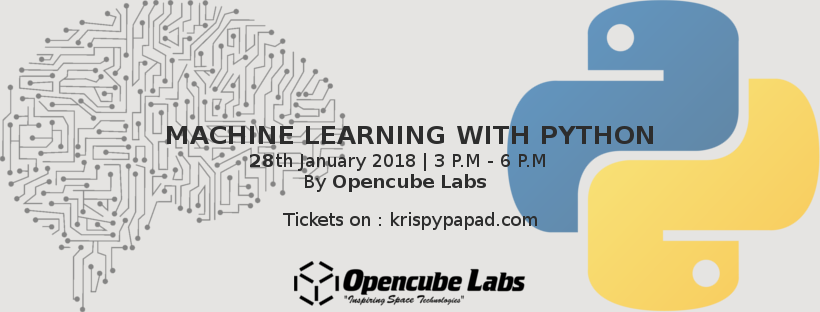
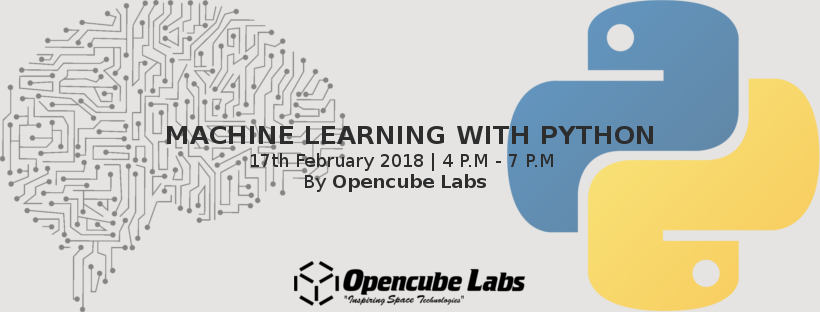
new ml-py wrkshp added for 17/02/2018

Changed region(s): [[0.3049, 0.4904, 0.6707, 0.5481], [0.3354, 0.6635, 0.6707, 0.75]]

diff --git a/templates/index.html b/templates/index.html
@@ -142,6 +142,18 @@
 
           <div class="col-md-3 wow fadeIn" data-wow-duration="2s" style="margin-top: 15px;">
             <div class="card" style="width: 100%;">
+              <img src="img/events/ml-py.png" alt="Avatar" style="width:100%">
+              <div class="card-container">
+                <h4><b>Machine Learning with Python</b></h4> 
+                <p>17th Feb, 2018 | 04 P.M - 07 P.M</p>
+                <p><i class="fa fa-map-marker"></i> Bangalore</p>
+                <p>₹399 | <a href="/event/ocl-ml-with-python"  target="_blank" style="text-decoration: none; color: #fff;"><button class="card-1" style="border: none; background-color: #2e90cc; padding-left: 15px; padding-right: 15px; padding-top: 5px; padding-bottom: 5px;">Know more</button></a></p> 
+              </div>
+            </div>
+          </div>
+
+          <div class="col-md-3 wow fadeIn" data-wow-duration="2s" style="margin-top: 15px;">
+            <div class="card" style="width: 100%;">
               <img src="img/events/odh.png" alt="Avatar" style="width:100%">
               <div class="card-container">
                 <h4><b>Data Science Workshop</b></h4> 
@@ -161,18 +173,6 @@
                 <p>28th Jan, 2018 | 9 A.M - 12 P.M</p>
                 <p><i class="fa fa-map-marker"></i> Bangalore</p>
                 <p>₹399 onwards | <a href="/event/ocl-arduino"  target="_blank" style="text-decoration: none; color: #fff;"><button class="card-1" style="border: none; background-color: #2e90cc; padding-left: 15px; padding-right: 15px; padding-top: 5px; padding-bottom: 5px;">Know more</button></a></p> 
-              </div>
-            </div>
-          </div>
-
-          <div class="col-md-3 wow fadeIn" data-wow-duration="2s" style="margin-top: 15px;">
-            <div class="card" style="width: 100%;">
-              <img src="img/events/ml-py.png" alt="Avatar" style="width:100%">
-              <div class="card-container">
-                <h4><b>Machine Learning with Python</b></h4> 
-                <p>28th Jan, 2018 | 03 P.M - 06 P.M</p>
-                <p><i class="fa fa-map-marker"></i> Bangalore</p>
-                <p>₹399 | <a href="/event/ocl-ml-with-python"  target="_blank" style="text-decoration: none; color: #fff;"><button class="card-1" style="border: none; background-color: #2e90cc; padding-left: 15px; padding-right: 15px; padding-top: 5px; padding-bottom: 5px;">Know more</button></a></p> 
               </div>
             </div>
           </div>

diff --git a/templates/ocl-ml-with-python.html b/templates/ocl-ml-with-python.html
@@ -70,7 +70,7 @@
               <div class="card" style="width: 100%;">
                 <div class="card-container" style="border-color: red; border-top: 15px;">
                   <h4><b>Machine Learning with Python</b></h4>
-                  <h4>28th Dec, 2017 | 06 P.M - 06 P.M</h4>
+                  <h4>17th Feb, 2018 | 04 P.M - 07 P.M</h4>
                   <h4><b>Venue :</b> Opencube Labs, Bangalore-24</h4>
                   <h4><b>Price : </b>₹399</h4>
                   <h4><b>Organiser</b></h4>
@@ -130,9 +130,9 @@
             <div class="col-lg-4 col-md-4 col-sm-12 col-xs-12" style="margin-top: 15px;">
                 <div class="card" style="width: 100%;">
                   <div class="card-container" style="padding: 25px 25px 25px 25px;">
-                    <h4 style="">Registration closed</h4>
+                    <!-- <h4 style="">Registration closed</h4> -->
                     
-                    <!-- <form action="/api/pay/kp" method="post">
+                    <form action="/api/pay/kp" method="post">
                       <input type="hidden" name="event_id" value="Machine Learning with Python">
                       <input type="hidden" name="amount" value="399">
                       <div class="form-group">
@@ -152,7 +152,7 @@
                       </div>
                       <input type="submit" class="form-control card-1" value="Register Now" style="border: none; background-color: #2e90cc; color: #fff; border-radius: 0px;">
 
-                    </form> -->
+                    </form>
                   </div>
                 </div>
             </div>

diff --git a/templates/odh-data-science-workshop.html b/templates/odh-data-science-workshop.html
@@ -149,8 +149,8 @@
             <div class="col-lg-4 col-md-4 col-sm-12 col-xs-12" style="margin-top: 15px;">
                 <div class="card" style="width: 100%;">
                   <div class="card-container" style="padding: 25px 25px 25px 25px;">
-                    <!-- <h4 style="">Registration closed</h4> -->
-                    <form action="/api/pay/kp" method="post">
+                    <h4 style="">Registration closed</h4>
+                    <!-- <form action="/api/pay/kp" method="post">
                       <input type="hidden" name="event_id" value="Data Science Workshop">
                       <input type="hidden" name="amount" value="399">
                       <div class="form-group">
@@ -172,7 +172,7 @@
 
                     </form>
                     <br>
-                    <p><sup>The registration fees is utilized for development of community projects.</sup></p>
+                    <p><sup>The registration fees is utilized for development of community projects.</sup></p> -->
                   </div>
                 </div>
             </div>

diff --git a/email_attach.py b/email_attach.py
@@ -12,7 +12,7 @@ SENDER = "Opencube Labs <suraj@ocl.space>"
 AWS_REGION = "us-east-1"
 
 
-SUBJECT = "[CERTIFICATE] Arduino:Hands-on Workshop by Opencube Labs on 28th January, 2018"
+SUBJECT = "[CERTIFICATE] Data Science Workshop by Open Data Hack & Opencube Labs on 11th February, 2018"
 
 def send_cert_attach(email_id, name, file_name):
 
@@ -21,15 +21,16 @@ def send_cert_attach(email_id, name, file_name):
     ATTACHMENT = "./ocl_cert/" + file_name + ".pdf"
 
 
-    BODY_TEXT = "Hello " + name + "!,\r\nThank you for attending Arduino:Hands-on Workshop by Opencube Labs on 28th January, 2018. Please find attached your certificate.\n\nPresentation URL : https://www.slideshare.net/SurajKumarJana/arduino-handson-workshop\n\nFollow us on Twitter(twitter.com/opencubelabs), like us on Facebook(fb.com/opencubelabs) to get updated about our future events.\n\nThank you,\n\nRegards,\nSuraj Kumar Jana\nFounder & CEO, Opencube Labs\nhttp://ocl.space"
+    BODY_TEXT = "Hello " + name + "!,\r\nThank you for attending Data Science Workshop by Open Data Hack & Opencube Labs on 11th February, 2018. Please find attached your certificate.\n\nPresentation URL : https://www.slideshare.net/SurajKumarJana/introduction-to-open-data-and-data-science\n\nCode Notebooks : https://github.com/opencubelabs/notebooks\n\nFollow us on Twitter(twitter.com/opencubelabs), like us on Facebook(fb.com/opencubelabs) to get updated about our future events.\n\nThank you,\n\nRegards,\nSuraj Kumar Jana\nFounder & CEO, Opencube Labs\nhttp://ocl.space"
 
     BODY_HTML = """\
     <html>
     <head></head>
     <body>
     <h1>Hello """ + name + """!</h1>
-    <p>Thank you for attending Arduino:Hands-on Workshop by Opencube Labs on 28th January, 2018. Please find attached your certificate.</p>
-    <p>Presentation URL : https://www.slideshare.net/SurajKumarJana/arduino-handson-workshop</p>
+    <p>Thank you for attending Data Science Workshop by Open Data Hack & Opencube Labs on 11th February, 2018. Please find attached your certificate.</p>
+    <p>Presentation URL : https://www.slideshare.net/SurajKumarJana/introduction-to-open-data-and-data-science</p>
+    <p>Code Notebooks : https://github.com/opencubelabs/notebooks</p>
     
     <p>Follow us on Twitter(twitter.com/opencubelabs), like us on Facebook(fb.com/opencubelabs) to get updated about our future events.</p>
     <br>
